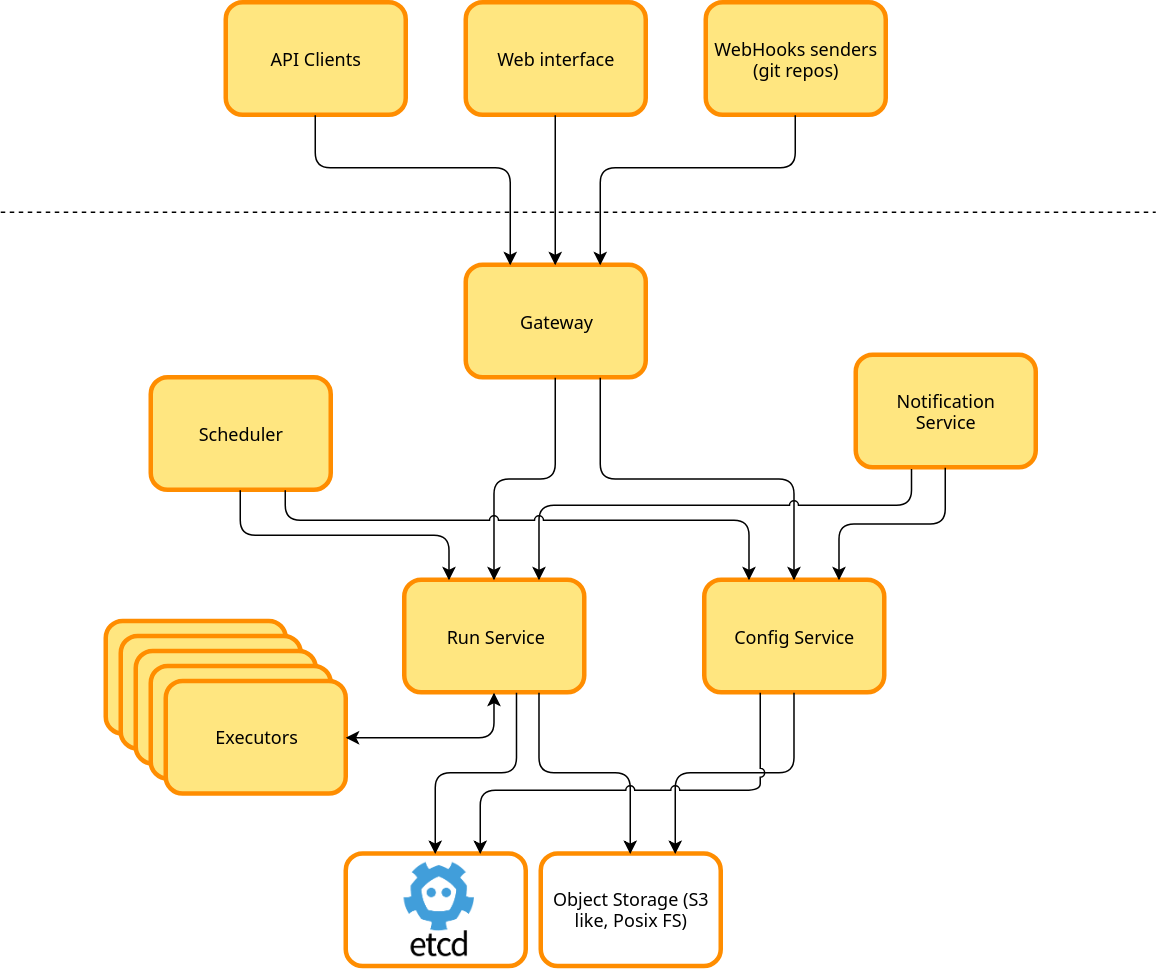
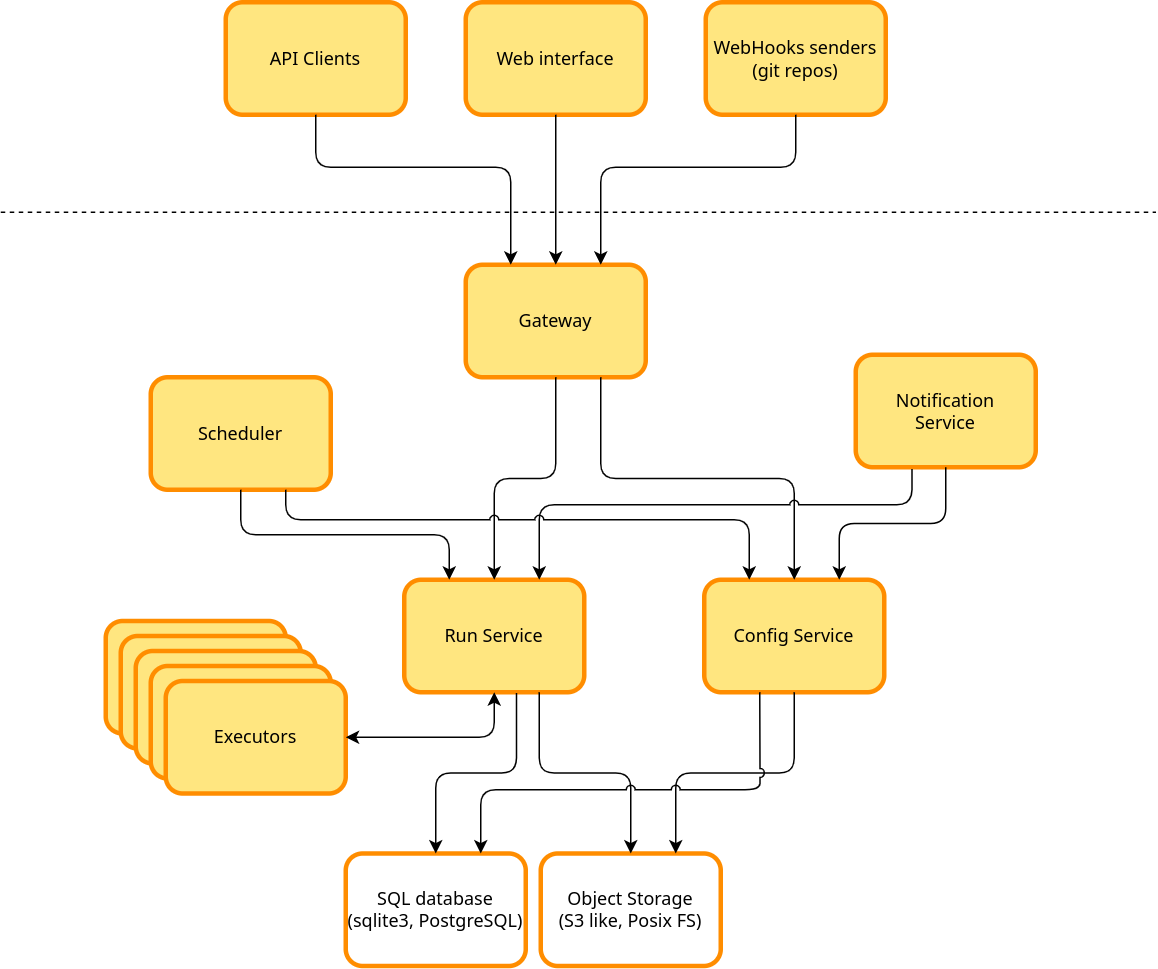
*: replace etcd with database for agola v0.8.0

diff --git a/site/doc/installation/config.md b/site/doc/installation/config.md
@@ -74,20 +74,20 @@ notification:
   runserviceURL: "http://runservice:4000"
   configstoreURL: "http://configstore:4002"
 
-  # etcd client configuration
-  etcd:
-    endpoints: "http://youretcd:2379"
-    # etc client tls config
-    #tlsCertFile
-    #tlsKeyFile
-    #tlsCAFile
-    #tlsSkipVerify
+  db:
+    type: sqlite3
+    connString: "/data/agola/notification/db/db"
+    # type: postgres
+    # connString: "postgres://@localhost/agola_notification?sslmode=disable"
 
 configstore:
   dataDir: /data/agola/configstore
 
-  etcd:
-    endpoints: "http://localhost:2379"
+  db:
+    type: sqlite3
+    connString: "/data/agola/configstore/db/db"
+    # type: postgres
+    # connString: "postgres://@localhost/agola_configstore?sslmode=disable"
 
   objectStorage:
     # posix based object storage. It requires a shared posix fs like nfs, chepfs etc...
@@ -109,8 +109,13 @@ configstore:
 runservice:
   #debug: true
   dataDir: /data/agola/runservice
-  etcd:
-    endpoints: "http://localhost:2379"
+
+  db:
+    type: sqlite3
+    connString: "/data/agola/runservice/db/db"
+    # type: postgres
+    # connString: "postgres://@localhost/agola_runservice?sslmode=disable"
+
   objectStorage:
     # posix based object storage. It requires a shared posix fs like nfs, chepfs etc...
     #

diff --git a/site/doc/installation/standalone.md b/site/doc/installation/standalone.md
@@ -10,12 +10,14 @@ Since agola is composed of multiple components you can deploy it in many differe
 
 ## Prerequisites
 
-* An etcd cluster
+* A database
+  * PostgreSQL.
+  * sqlite3 (can be used only for single instance deployments)
 * An object storage:
   * A posix shared fs like nfs or cephfs
   * A S3 based storage
 
-Create a configuration file with the correct entries to your etcd, objectstorage and components config (see the [configuration reference](config))
+Create a configuration file with the correct entries to your database, objectstorage and components config (see the [configuration reference](config))
 
 
 ### High available with N executors
@@ -33,5 +35,3 @@ On every "executor" machine:
 ```
 agola serve --config ./config-localhost.yml --components executor
 ```
-
-

diff --git a/site/tryit/index.md b/site/tryit/index.md
@@ -5,7 +5,7 @@ lang: en-US
 
 ## Agola demo image
 
-The dockerhub `sorintlab/agolademo` is a demo image to easily test agola, it comes with a predefined configuration that uses an embedded etcd. Don't use it in production but build your own image or use the `sorintlab/agola` image
+The dockerhub `sorintlab/agolademo` is a demo image to easily test agola. Don't use it in production but build your own image or use the `sorintlab/agola` image
 
 We assume `172.17.0.1` is the docker default network where ports are exported
 
@@ -17,7 +17,7 @@ docker run \
 -v=/path/to/local/agola/data:/data/agola \
 -p 8000:8000 \
 sorintlab/agolademo \
-serve --embedded-etcd --components all-base,executor
+serve --components all-base,executor
 ```
 
 ## Connect
